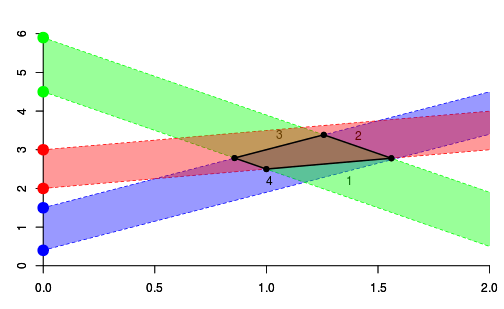
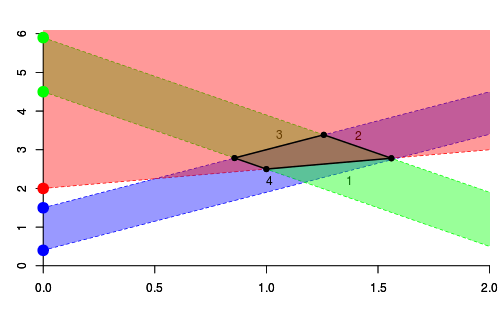
update

Changed region(s): [[0.0595, 0.0874, 0.9821, 0.5243]]

diff --git a/index.html b/index.html
@@ -307,42 +307,49 @@ end
 particle for illustration.</p>
 
 <div class='leftcol' style='width:49%;'>
-  <pre><code class="r" style="font-size:68%"># extract lower line from ribbon
+  <pre><code class="r" style="font-size:61%"># extract lower/upper line from ribbon
 function Dlow(ribbon::Ribbon)
         Line(ribbon.aLow, ribbon.b, false)
 end
-# extract upper line from ribbon
 function Dupp(ribbon::Ribbon)
         Line(ribbon.aUpp, ribbon.b, true)
 end
 </code></pre>
 
-<pre><code class="r" style="font-size:68%"># returns the intersection of two lines given by (intercept, slope)
+<pre><code class="r" style="font-size:61%"># returns the intersection of two lines given by (intercept, slope)
 function intersect(D1, D2)
         x = (D1[1]-D2[1])/(D2[2]-D1[2])
         return [x, D1[1] + D1[2]*x]
 end
+</code></pre><pre><code class="r" style="font-size:61%"># returns the polyhedron intersection of two ribbons
+function ipart(R1::Ribbon, R2::Ribbon)
+    D11 = Dlow(R1); D12 = Dupp(R1); D21 = Dlow(R2); D22 = Dupp(R2)
+    A = intersect((D11.a, D11.b), (D21.a, D21.b));
+    B = intersect((D11.a, D11.b), (D22.a, D22.b));
+    C = intersect((D12.a, D12.b), (D21.a, D21.b));
+    D = intersect((D12.a, D12.b), (D22.a, D22.b));
+    return orderPart(hcat(A,B,C,D))
+end
+
 </code></pre>
 
 </div>
 <div class='rightcol' style='width:51%;'>
-  <pre><code class="r" style="font-size:68%"># first ribbon: 
+  <p><em>Example:</em></p>
+
+<pre><code class="r" style="font-size:68%"># first ribbon: 
 R1 = Ribbon(0.4, 1.5, BigFloat("1.5"));
-D1_low = Dlow(R1);
-D1_upp = Dupp(R1);
 # second ribbon:
 R2 = Ribbon(4.5, 5.9, BigFloat("-2"));
-D2_low = Dlow(R2);
-D2_upp = Dupp(R2);
+# find the intersection polyhedron:
+poly0 = poly = ipart(R1, R2)
+</code></pre>
 
-# find the intersections:
-A = intersect((D1_low.a, D1_low.b), (D2_low.a, D2_low.b));
-B = intersect((D1_low.a, D1_low.b), (D2_upp.a, D2_upp.b));
-C = intersect((D1_upp.a, D1_upp.b), (D2_low.a, D2_low.b));
-D = intersect((D1_upp.a, D1_upp.b), (D2_upp.a, D2_upp.b));
+<pre><code class="r" style="font-size:68%">julia> float64(poly)
+2x4 Array{Float64,2}:
+ 1.17143  1.57143  1.25714  0.857143
+ 2.15714  2.75714  3.38571  2.78571 
 
-# particle:
-poly = orderPart(hcat(A,B,C,D))
 </code></pre>
 
 </div>
@@ -478,7 +485,7 @@ is sampled.</p>
   <article data-timings="">
     
 <div class='leftcol' style='width:50%;'>
-  <pre><code class="r" style="font-size:71%"># new ribbon
+  <pre><code class="r" style="font-size:65%"># new ribbon
 a_low = 2.;
 a_upp = 3.;
 b = BigFloat("0.5");
@@ -487,12 +494,14 @@ R3 = Ribbon(a_low, a_upp, b)
 
 <p><img src="assets/fig/JuliaGFI01-plot_newribbon_01.png" alt="plot of chunk plot_newribbon_01"> </p>
 
+<p>We firstly calculate the intersection with the lower line, and the with the upper line</p>
+
 </div>
 <div class='rightcol' style='width:50%;'>
   <p>For each edge ($1$, $2$, $3$, $4$) of the current particle, here are the number of 
-vertices above the lower new line:</p>
+vertices above the new lower line:</p>
 
-<pre><code class="r" style="font-size:68%">D = Dlow(R3)
+<pre><code class="r" style="font-size:68%">D = Dlow(R3) # the lower line of R3
 test1 = vec(poly[2,:]) .> D.a .+ D.b .* vec(poly[1,:])
 test2 = test1[[2:size(opoly)[2]; 1]]
 test = test1 + test2
@@ -639,6 +648,7 @@ end
   <p><em>Intersection in case of two points (one edge) outside:</em></p>
 
 <pre><code class="r" style="font-size:64%">function updatePoly1(opoly::Array{BigFloat,2}, D::Line, toRemove::Int)
+        opoly = deepcopy(opoly) # see https://groups.google.com/d/topic/julia-users/PfTZhZu6OMo/discussion
         # first edge
         index = if toRemove==1 size(opoly)[2] else toRemove-1 end
         M = intersect((D.a,D.b), getLine(opoly,index))
